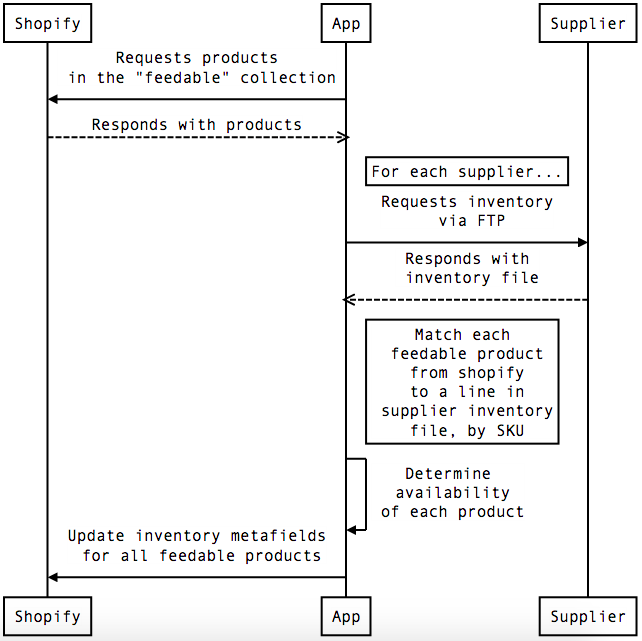
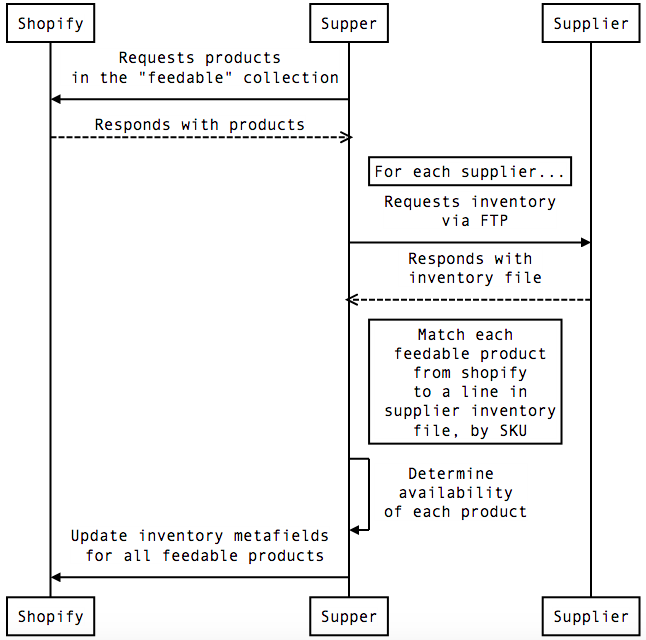
README, updated sequence diagram

diff --git a/README.md b/README.md
@@ -1,0 +1,5 @@
+# Supper (PRE-ALPHA)
+
+Supper lets you store inventory levels for multiple products in Shopify Product [metafields](http://docs.shopify.com/api/metafield). Specify your Shopify API/Supplier FTP credentials in YAML, and let Supper handle the REST.
+
+Supper is written in Ruby and uses [the official Shopify API gem](https://github.com/Shopify/shopify_api).
